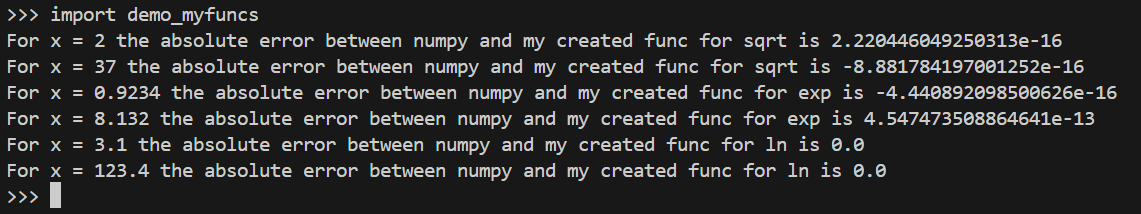
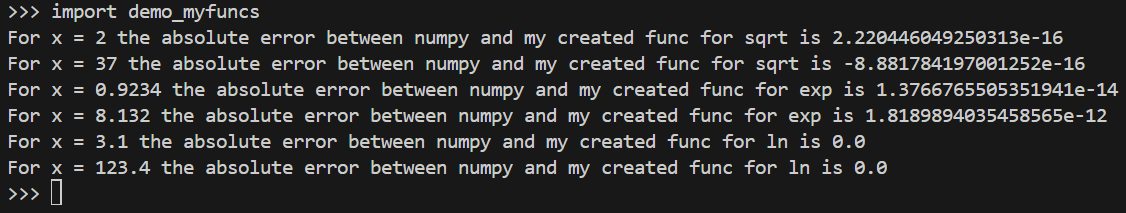
Updated test

diff --git a/lectures/lecture4/demo_myfuncs.py b/lectures/lecture4/demo_myfuncs.py
@@ -1,23 +1,24 @@
 import numpy as np
 import myfuncs as fn
 
+
 def testsqrt(test_value):
     actual = np.sqrt(test_value)
-    estimated = fn.sqrt(test_value)
+    estimated = fn.sqrt(test_value, None, 25, 1e-10)
 
     abs_error = actual - estimated
     print("For x =", test_value,"the absolute error between numpy and my created func for sqrt is", abs_error)
 
 def testexp(test_value):
     actual = np.exp(test_value)
-    estimated = fn.exp(test_value)
+    estimated = fn.exp(test_value, 25, 1e-12)
 
     abs_error = actual - estimated
     print("For x =", test_value,"the absolute error between numpy and my created func for exp is", abs_error)
 
 def testln(test_value):
     actual = np.log(test_value)
-    estimated = fn.ln(test_value)
+    estimated = fn.ln(test_value, None, 25)
 
     abs_error = actual - estimated
     print("For x =", test_value,"the absolute error between numpy and my created func for ln is", abs_error)
